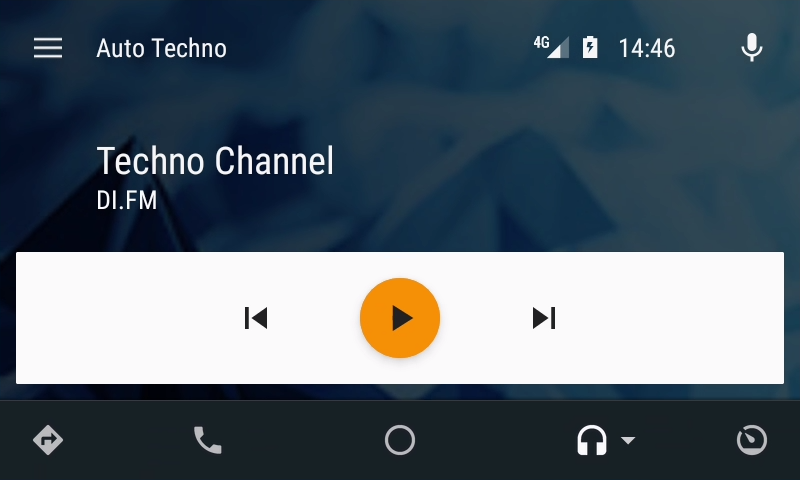
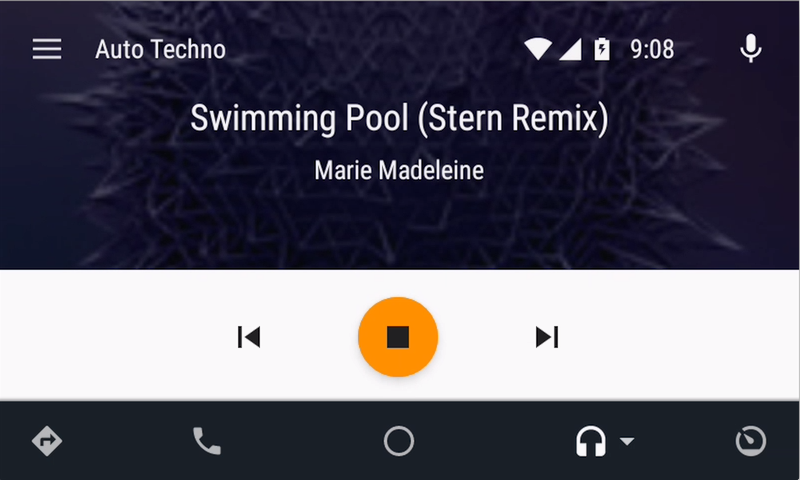
Set Player Data from IceCast headers

diff --git a/mobile/src/main/java/com/auto/techno/PlayerHolder.kt b/mobile/src/main/java/com/auto/techno/PlayerHolder.kt
@@ -7,6 +7,7 @@ import android.support.v4.media.MediaMetadataCompat
 import android.support.v4.media.session.MediaSessionCompat
 import android.support.v4.media.session.PlaybackStateCompat
 import android.support.v4.media.session.PlaybackStateCompat.STATE_STOPPED
+import android.util.Log
 import com.google.android.exoplayer2.*
 import com.google.android.exoplayer2.source.ExtractorMediaSource
 import com.google.android.exoplayer2.source.TrackGroupArray
@@ -14,6 +15,7 @@ import com.google.android.exoplayer2.trackselection.DefaultTrackSelector
 import com.google.android.exoplayer2.trackselection.TrackSelectionArray
 import com.google.android.exoplayer2.upstream.DefaultDataSourceFactory
 import com.google.android.exoplayer2.util.Util
+import saschpe.exoplayer2.ext.icy.IcyHttpDataSourceFactory
 
 class PlayerHolder(private val context: Context,
                    private val session: MediaSessionCompat) : Player.EventListener {
@@ -27,11 +29,31 @@ class PlayerHolder(private val context: Context,
     }
 
     fun startPlaying(channel: Channel) {
+        val userAgent = Util.getUserAgent(context, "autotechno")
+        val icyHttpDataSourceFactory = IcyHttpDataSourceFactory.Builder(userAgent)
+                .setIcyHeadersListener { icyHeaders ->
+                    Log.d("XXX", "onIcyHeaders: %s".format(icyHeaders.toString()))
+                }
+                .setIcyMetadataChangeListener { icyMetadata ->
+                    Log.d("XXX", "onIcyMetaData: %s".format(icyMetadata.toString()))
+                    val artistTitle = icyMetadata.streamTitle.split(" - ")
+                    val artist = artistTitle.getOrNull(0) ?: ""
+                    val title = artistTitle.getOrNull(1) ?: ""
+                    session.setMetadata(MediaMetadataCompat.Builder()
+                            .putString(MediaMetadataCompat.METADATA_KEY_ARTIST, artist)
+                            .putString(MediaMetadataCompat.METADATA_KEY_TITLE, title)
+                            .putString(MediaMetadataCompat.METADATA_KEY_ALBUM, "${channel.title} DI.FM")
+                            .putBitmap(MediaMetadataCompat.METADATA_KEY_ALBUM_ART,
+                                    BitmapFactory.decodeResource(context.resources, channel.imageRes))
+                            .build()
+                    )
+                }
+                .build()
+
+        val dataSourceFactory = DefaultDataSourceFactory(context, null, icyHttpDataSourceFactory)
+
         val mediaSource = ExtractorMediaSource.Factory(
-                DefaultDataSourceFactory(
-                        context,
-                        Util.getUserAgent(context, "autotechno")
-                )
+                dataSourceFactory
         ).createMediaSource(
                 Uri.parse("http://prem4.di.fm:80/${channel.mediaId}?insertlistenerkeyhere")
         )
